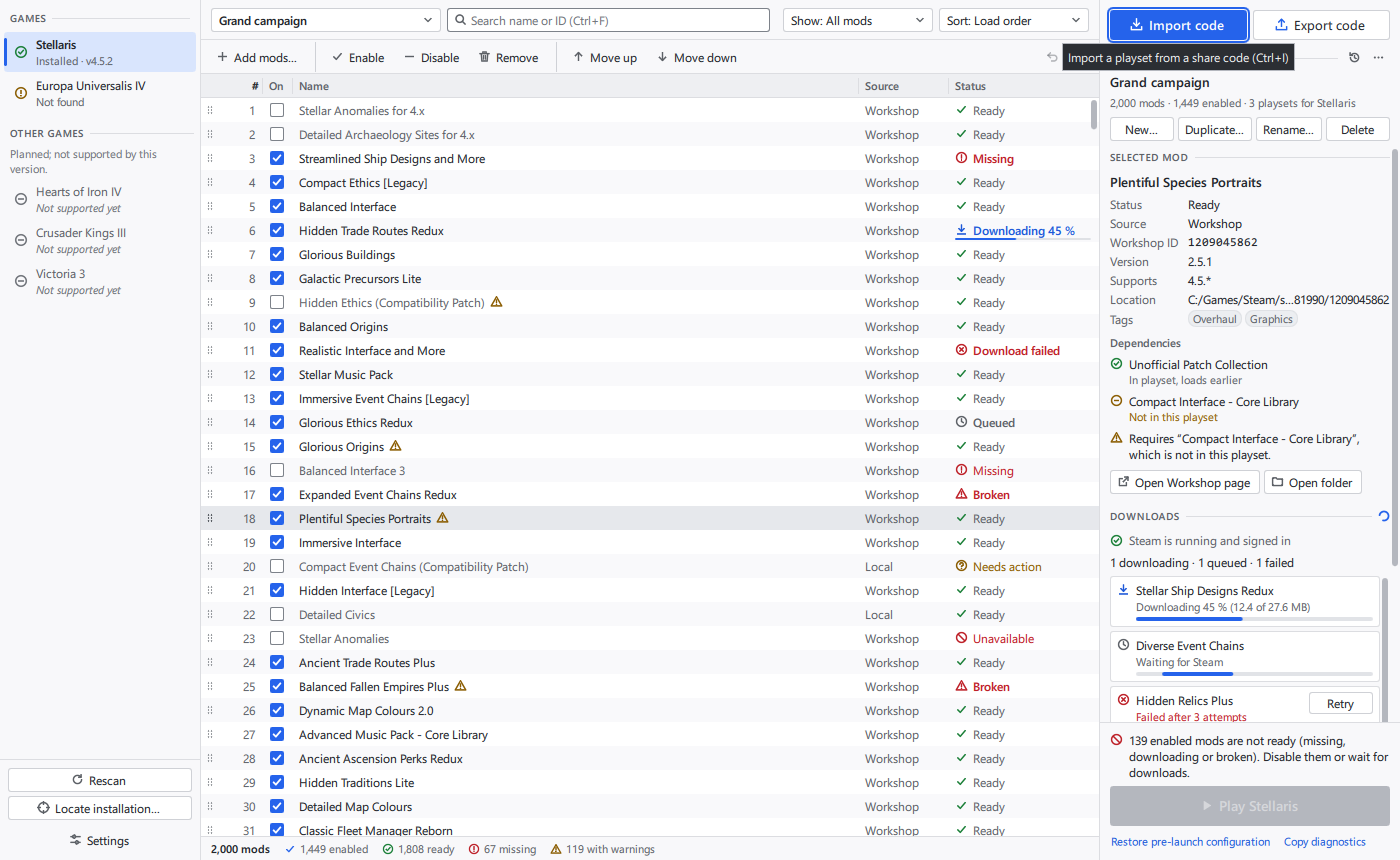
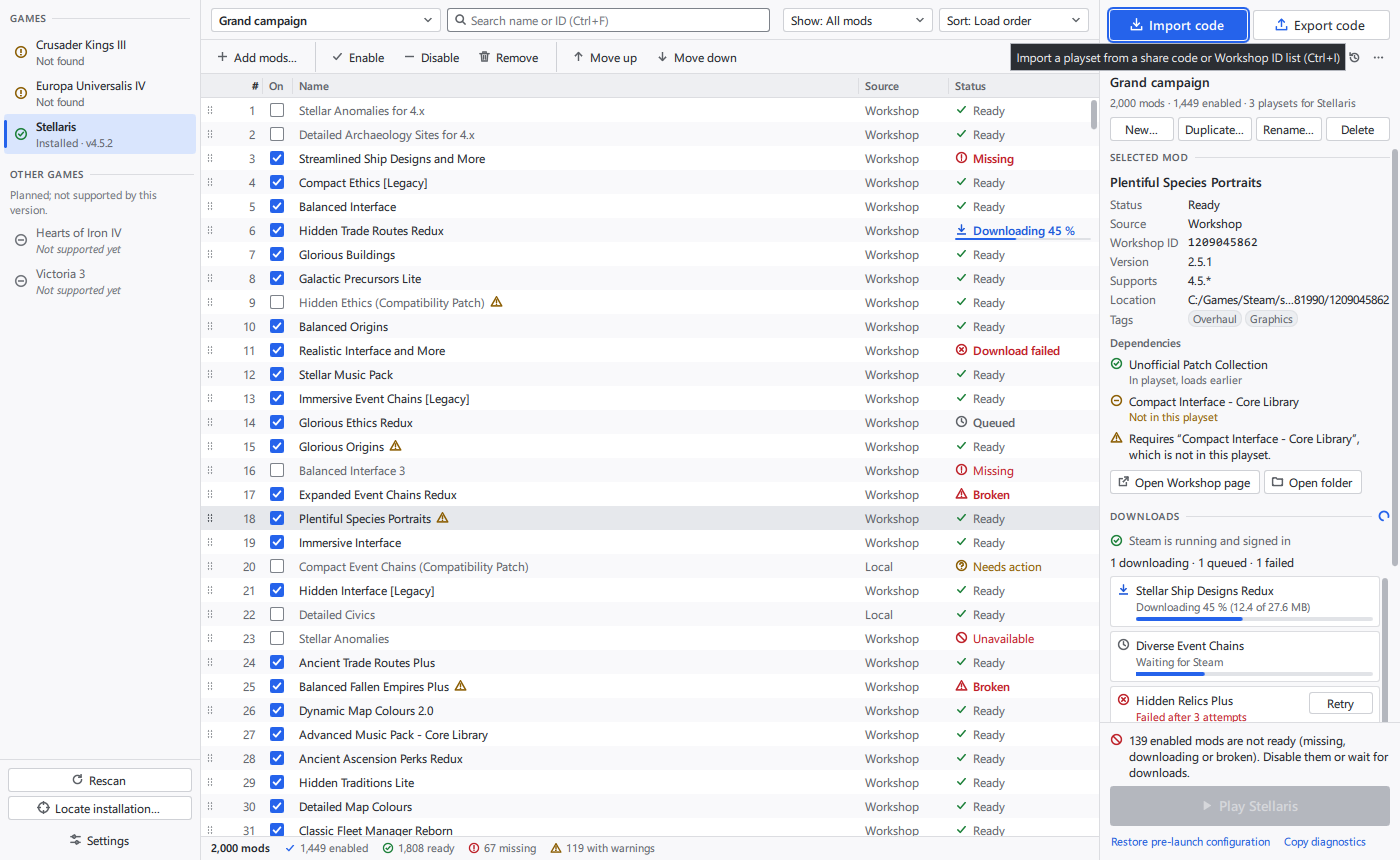
Refresh the screenshots for 0.2.0: Crusader Kings III in the games column, the new dialogs

diff --git a/docs/app.md b/docs/app.md
@@ -311,15 +311,23 @@ entries) and EU4 (9 entries)
 ([evidence](evidence/app-round-trip-2026-10-30.md)).
 
 The screenshots in `docs/screenshots/app-*.png` were taken with
-`--screenshot` against Stellaris 4.5.2 and EU4 1.37.5 on Windows 11, with
-temporary profiles; they were refreshed on 2026-10-30 after the accessibility
-changes. The Play area therefore shows the read-only blocker. The Stellaris
-profile was prepared with `--self-test
-"config,disable:2,move:0:5,move:16:1,export:code.txt"`; the main and dark
-captures use `--select-row 2` (a Workshop mod, so the details show no
-personal path), the filtered one `--filter disabled --select-row 0`, the
+`--screenshot` against Stellaris and EU4 on Windows 11, with new temporary
+profiles; first on 2026-10-30 (Stellaris 4.5.2), last refreshed on 2026-11-13
+for 0.2.0 (Stellaris 4.5.4, EU4 1.37.5). Crusader Kings III, installed on the
+same machine, appears only as an entry in the games column. The Play area
+shows the read-only blocker. Every run passes `--game stellaris` or `--game
+eu4`, since a new profile otherwise opens the first installed game in
+alphabetical order. The Stellaris profile was prepared with `--self-test
+"config,disable:2,move:0:5,move:13:1,export:code.txt"` (its configuration had
+14 entries; `move:13:1` moves the last one to the second place); the main and
+dark captures use `--select-row 2` (a Workshop mod, so the details show no
+personal path), the export and add-mods ones too, with `--open export` and
+`--open add-mods`, the filtered one `--filter disabled --select-row 0`, the
 import preview a new profile with `--open import:code.txt`, and the EU4 one a
-new profile with `--self-test config --select-row 0`. The list only shows its
+new profile with `--self-test config --select-row 0`.
+`app-settings-updates.png` is the Updates part of `--open settings`, cut to
+436x352 pixels from the dialog's top left corner, above the About section with
+the profile's folders. The list only shows its
 focus ring when the window is the active window during the capture; repeat a
 capture that shows the grey inactive selection. Play's tool tip opens when
 the mouse pointer happens to rest where the window opens (while Play is
@@ -332,10 +340,11 @@ smallest window, set `QT_SCALE_FACTOR=2` and add `--window-size 1x1`
 | --- | --- |
 | `app-main-light.png`, `app-main-dark.png` | Stellaris playset from the game's configuration, one entry disabled and reordered, a Workshop mod selected |
 | `app-filtered.png` | status filter "Disabled": reordering is off, with the explanation |
-| `app-export.png` | export dialog with the share code |
+| `app-export.png` | export dialog with the share code and the Workshop ID list |
 | `app-add-mods.png` | installed Stellaris mods, playset members marked |
 | `app-import-preview.png` | the exported code previewed in a clean profile |
-| `app-eu4.png` | EU4 playset from the game's `dlc_load.json` |
+| `app-eu4.png` | EU4 playset from the game's `dlc_load.json`, with the load order note |
+| `app-settings-updates.png` | the Updates section of Settings in a verification run, where it is off |
 
 ## Files and folders
 

diff --git a/docs/accessibility.md b/docs/accessibility.md
@@ -367,6 +367,13 @@ fixes the same captures, also at 911x512 with `QT_SCALE_FACTOR` 1.5 and at
 1120x700, and the real application with `--filter disabled` at 900x440
 (scale 1 and 2), showed nothing clipped or covered.
 
+The two captures below were refreshed on 2026-11-13 for 0.2.0 with
+`--screenshot` and `QT_SCALE_FACTOR` 1.5 and 2 (the real application,
+read-only, Stellaris 4.5.4, a new scratch profile with a playset from the
+game's configuration, light theme): 2100x1290 pixels, and at 2 again the
+window limited to the screen, 2800x1422. A row is highlighted where the mouse
+pointer rested.
+
 ![Real application at scale factor 1.5](screenshots/a11y-scale-150.png)
 
 ![Real application at scale factor 2, limited to the screen height](screenshots/a11y-scale-200.png)

diff --git a/ui/README.md b/ui/README.md
@@ -170,6 +170,7 @@ release's CI run them without bash.
 
 `docs/screenshots/`: `main-light`, `main-dark`, `main-filtered` (reorder
 disabled banner), `import-preview` / `import-preview-dark`, `export-code`
-(with a toast above the dialog), `add-mods`, `settings`, `playset-deleted`
-(Restore affordance), `history`, `game-not-found`, `a11y-focus-light`
-(keyboard focus ring and tool tip), `a11y-shortcuts-dark` (F1 list).
+(with its Workshop ID list and a toast above the dialog), `add-mods`,
+`settings`, `playset-deleted` (Restore affordance), `history`,
+`game-not-found`, `a11y-focus-light` (keyboard focus ring and tool tip),
+`a11y-shortcuts-dark` (F1 list).
